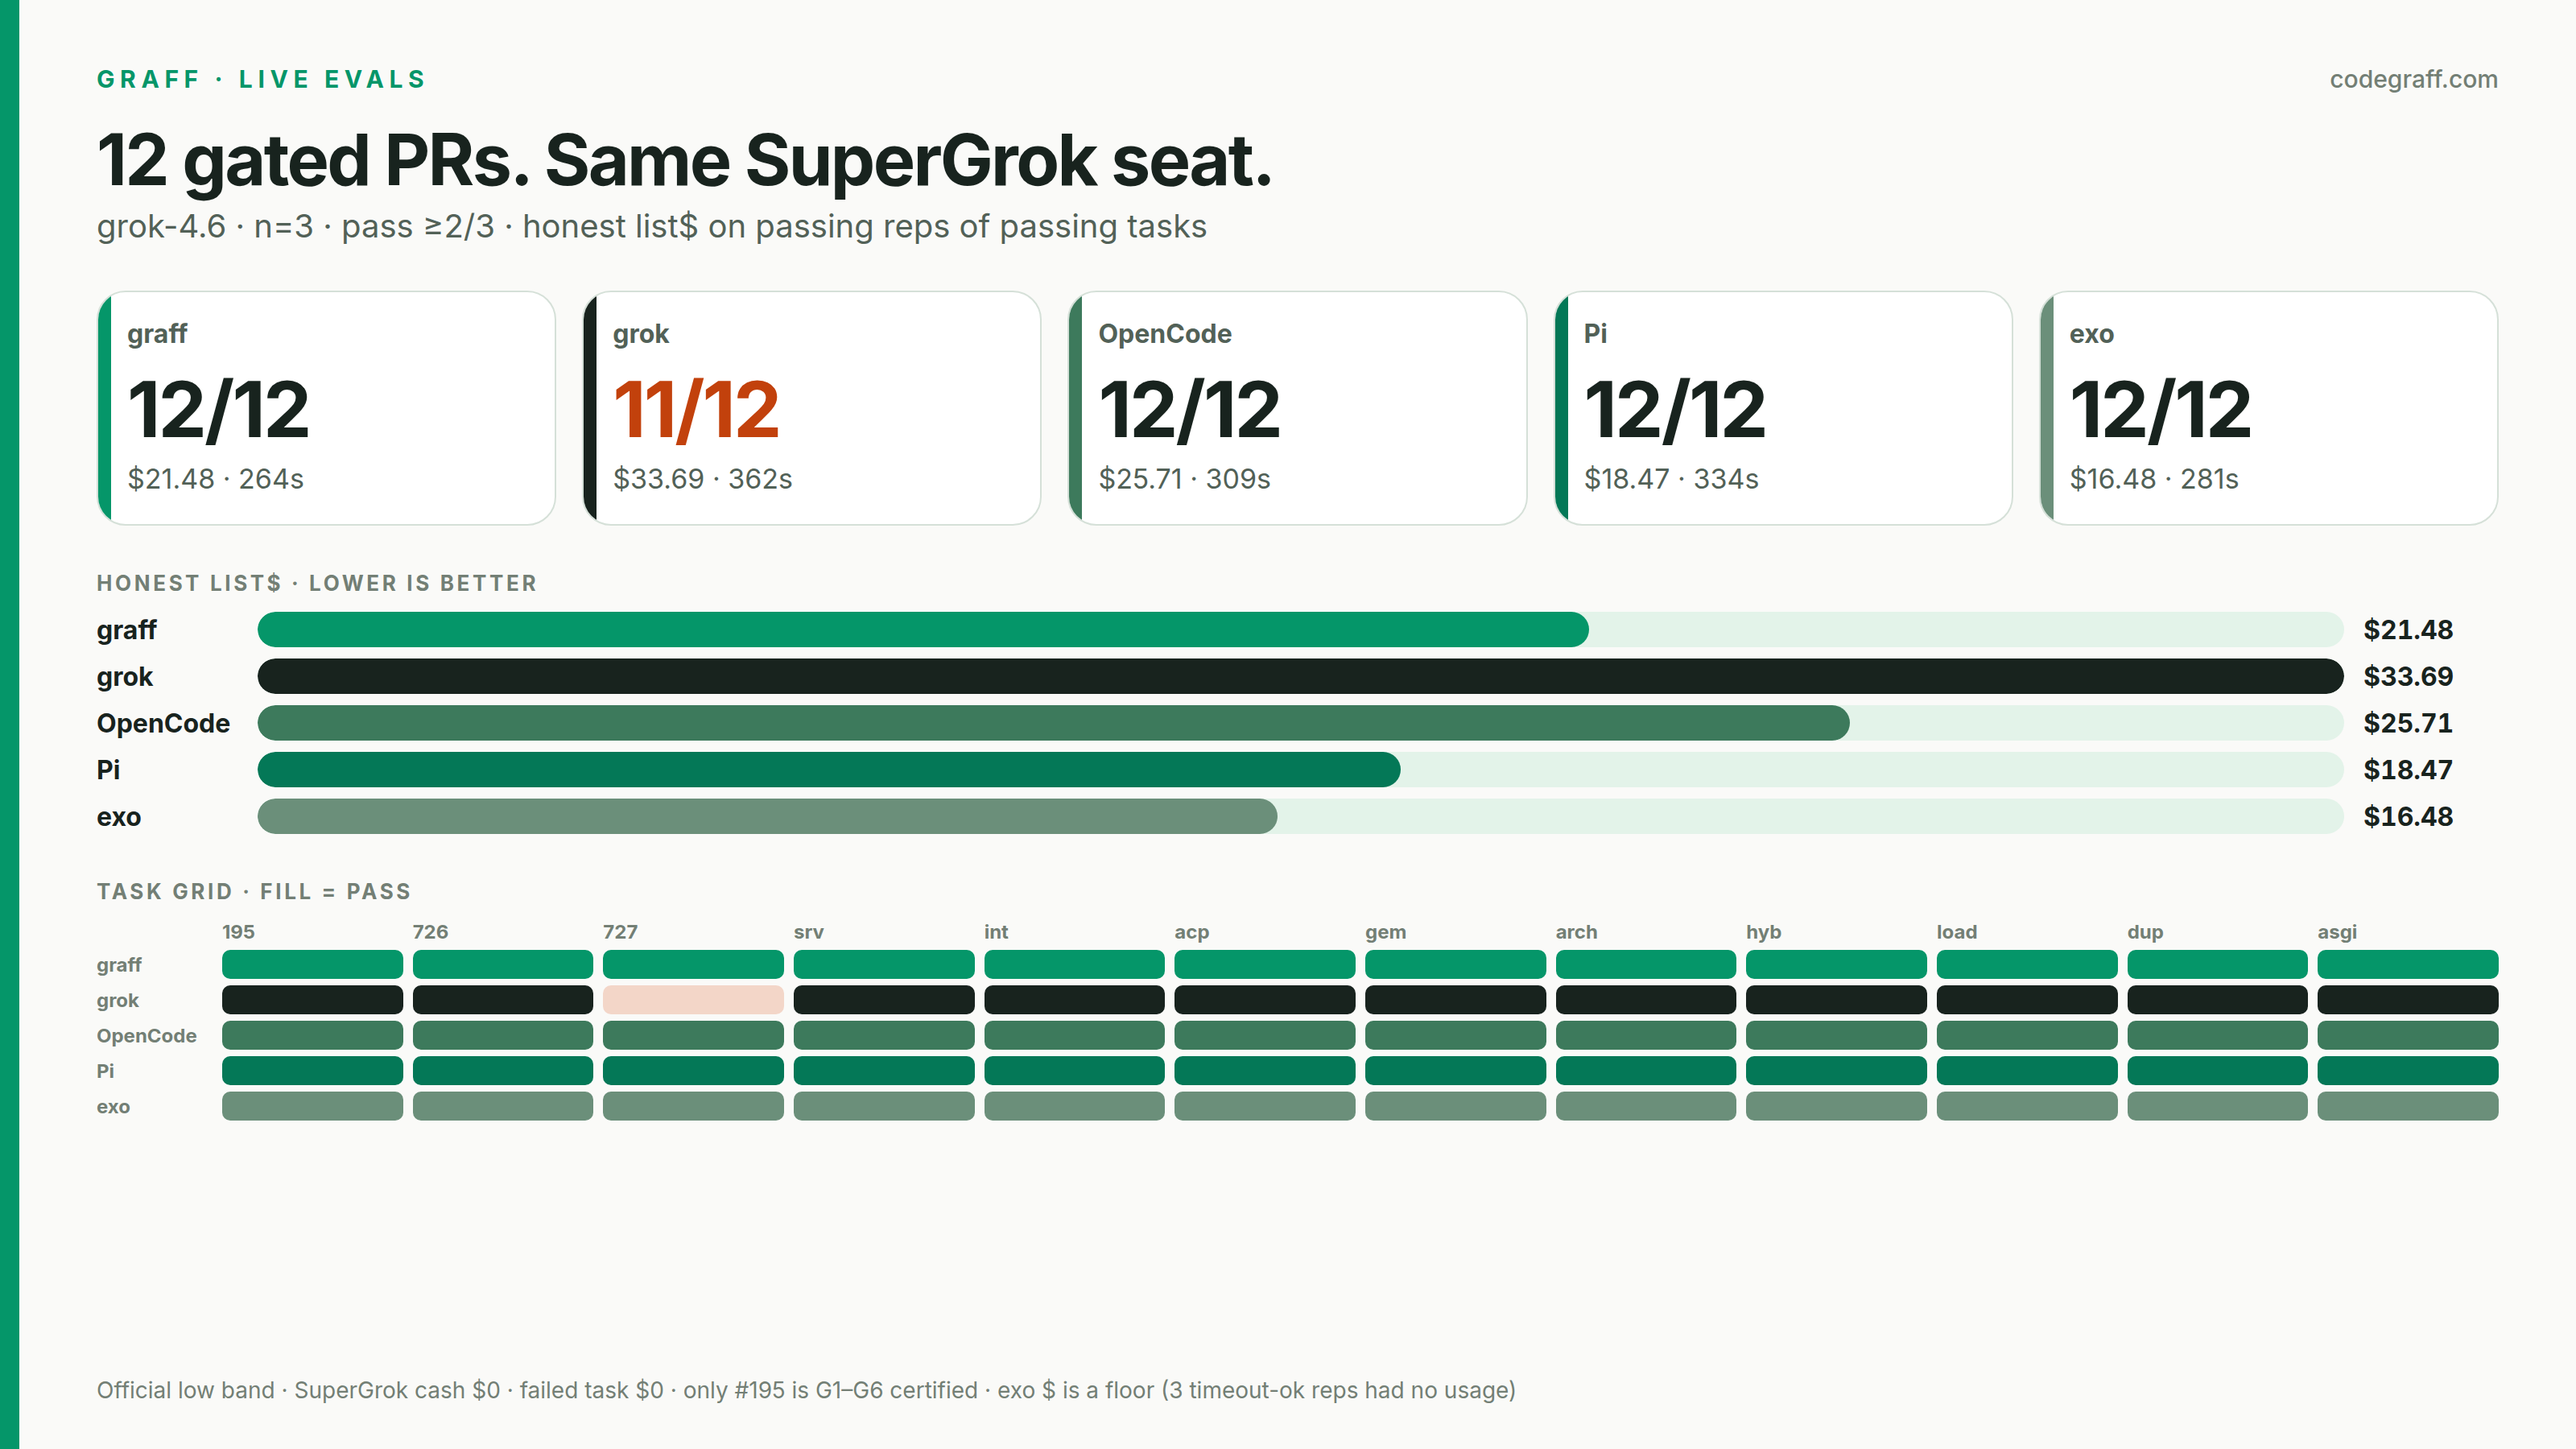
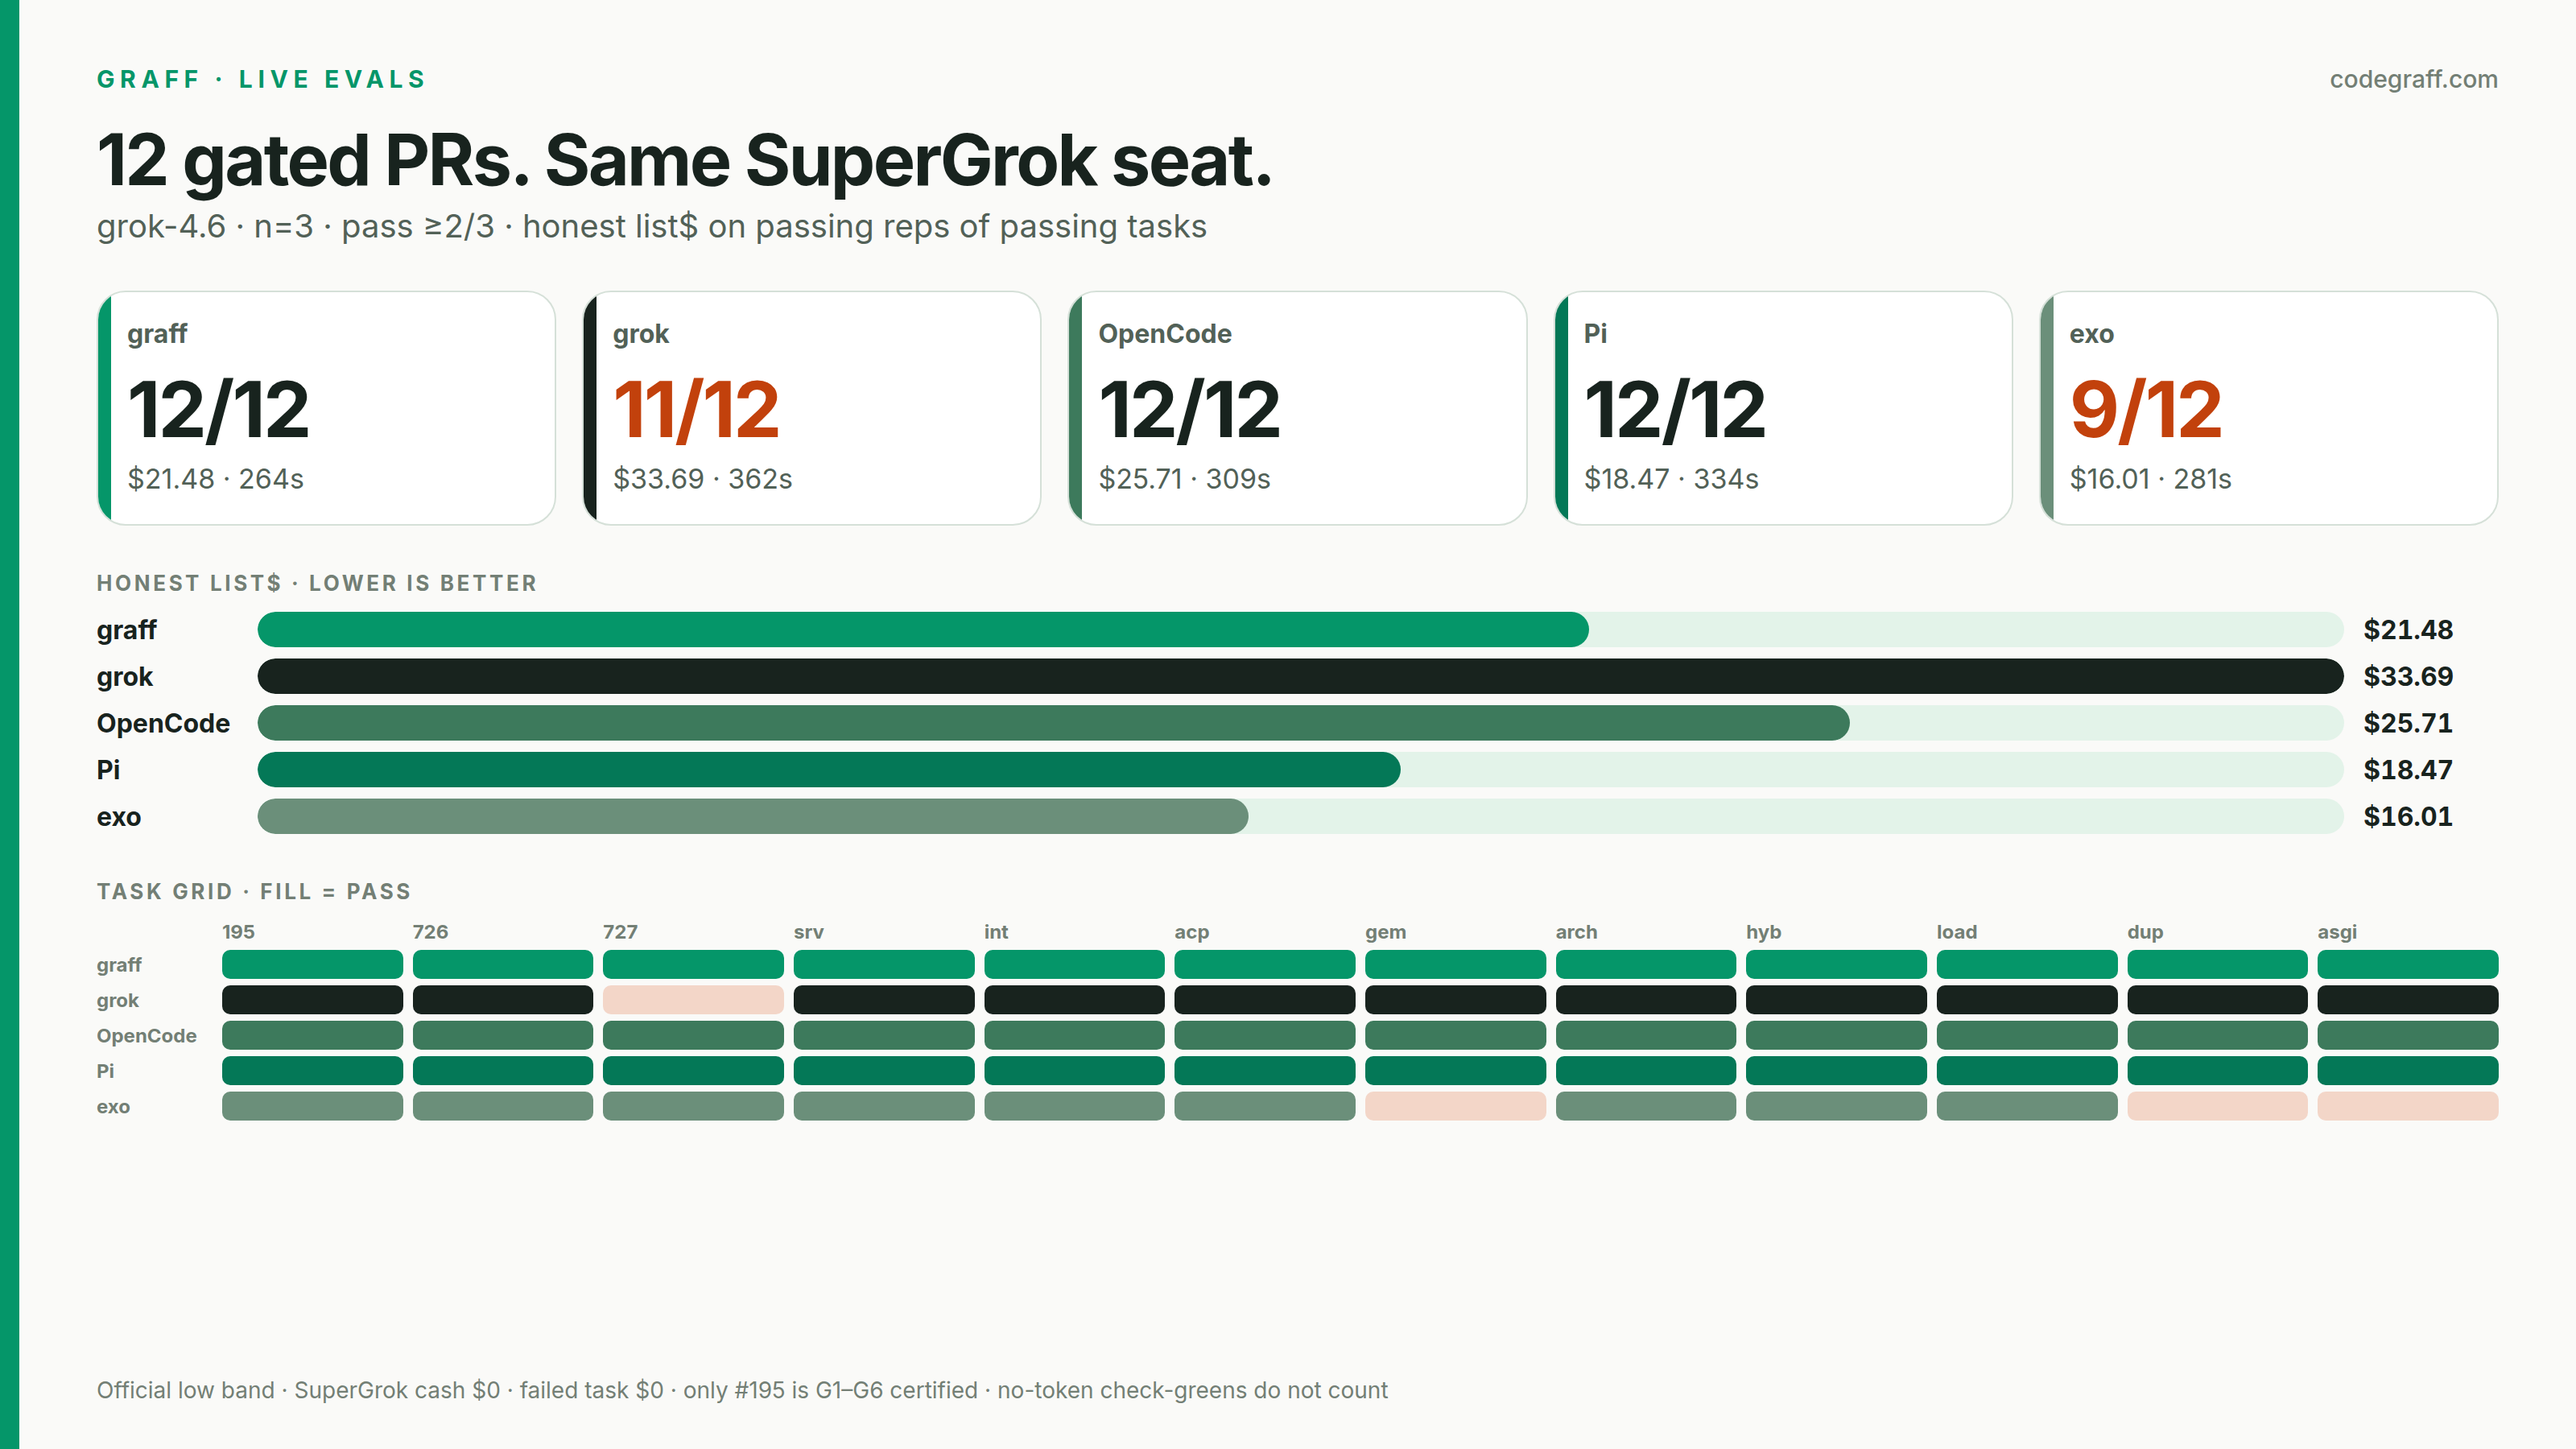
docs(evals): score exo 9/12 — no-token check-greens do not count
turbo-ws-duplex and turbo-asgi exited in under a second with no usage.
The public check still passed on the untouched tree. gemini-ix is 1 real
pass. Do not tweet exo as 12/12.

diff --git a/benchmarks/graff-live-12-report.html b/benchmarks/graff-live-12-report.html
@@ -48,15 +48,15 @@
 
     <div class="panel">
       <h2>Board</h2>
-      <p class="muted">Failed tasks contribute $0. exo's $16.48 is a floor — three timeout-ok reps recorded no usage.</p>
+      <p class="muted">Failed tasks contribute $0. A check-green with no tokens does not count.</p>
       <table>
-        <thead><tr><th>Harness</th><th>Reps</th><th>Tasks</th><th>Honest list$</th><th>Mean wall</th></tr></thead>
+        <thead><tr><th>Harness</th><th>Real reps</th><th>Tasks</th><th>Honest list$</th><th>Mean wall</th></tr></thead>
         <tbody>
           <tr><td><strong>graff</strong></td><td class="num">35/36</td><td class="num">12/12</td><td class="num">$21.48</td><td class="num">264s</td></tr>
           <tr><td>grok</td><td class="num">33/36</td><td class="num">11/12</td><td class="num">$33.69</td><td class="num">362s</td></tr>
           <tr><td>OpenCode</td><td class="num">36/36</td><td class="num">12/12</td><td class="num">$25.71</td><td class="num">309s</td></tr>
           <tr><td>Pi</td><td class="num">35/36</td><td class="num">12/12</td><td class="num">$18.47</td><td class="num">334s</td></tr>
-          <tr><td>exo</td><td class="num">34/36</td><td class="num">12/12</td><td class="num">$16.48</td><td class="num">281s</td></tr>
+          <tr><td>exo</td><td class="num">25/36</td><td class="num">9/12</td><td class="num">$16.01</td><td class="num">281s</td></tr>
         </tbody>
       </table>
     </div>
@@ -65,7 +65,7 @@
       <h2>How to read it</h2>
       <ul>
         <li>Only <code>graff-195</code> is G1–G6 certified. The other 11 are published live tasks.</li>
-        <li>Grok is the only seat that drops a task: <code>graff-727</code> at 1/3.</li>
+        <li>Grok drops <code>graff-727</code> (1/3). exo drops <code>graff-gemini-ix</code> plus <code>turbo-ws-duplex</code> / <code>turbo-asgi</code> (wrapper exit 1 in &lt;1s, no tokens).</li>
         <li>Stored JSONL <code>list$</code> high-bands the rep sum. Do not tweet that column.</li>
         <li>Wall is a hang detector. Do not score Graff first-token (boot <code>›</code>).</li>
         <li>This is not the in-house SPEC.md suite on the README (those are $0.32-class fixtures).</li>

diff --git a/graff-evals/plot_live.py b/graff-evals/plot_live.py
@@ -69,6 +69,11 @@ def honest(r: dict) -> float:
     return (ordinary * 2 + cached * 0.5 + out * 6) / 1e6
 
 
+def worked(r: dict) -> bool:
+    """A check-green with no tokens is not a solved task (exo turbo false greens)."""
+    return bool(r.get("tok_in") or r.get("tok_cached") or r.get("tok_out") or r.get("tok_calls"))
+
+
 def load_rows(path: Path, harness: str | None, skip: set | None) -> list[dict]:
     rows = []
     if not path.exists():
@@ -95,16 +100,16 @@ def score(rows: list[dict]) -> dict:
     pass_reps = fail_reps = to_ok = to_fail = 0
     for tid in TASKS:
         rs = sorted(by.get(tid, []), key=lambda x: x.get("rep", 0))
-        wins = sum(1 for r in rs if r.get("outcome_ok"))
+        wins = sum(1 for r in rs if r.get("outcome_ok") and worked(r))
         done = len(rs) >= 3
         ok = wins >= 2 if done else None
         cost = 0.0
         if done and ok:
-            cost = sum(honest(r) for r in rs if r.get("outcome_ok"))
+            cost = sum(honest(r) for r in rs if r.get("outcome_ok") and worked(r))
             suite += cost
         for r in rs:
             walls.append(r.get("wall_s") or 0)
-            if r.get("outcome_ok"):
+            if r.get("outcome_ok") and worked(r):
                 pass_reps += 1
             else:
                 fail_reps += 1
@@ -156,7 +161,7 @@ def build_summary() -> dict:
         "caveats": [
             "Only graff-195 is G1–G6 certified; the other 11 are published live tasks.",
             "Stored JSONL list$ high-bands the rep sum; headline $ is the official per-request low band.",
-            "exo honest $ is a floor: three timeout-ok reps recorded no usage.",
+            "A check-green with no tokens does not count (exo turbo-ws-duplex / turbo-asgi died in <1s).",
             "Wall is a hang detector. Do not score Graff first-token (boot ›).",
         ],
         "tasks": TASKS,
@@ -215,7 +220,7 @@ def svg(summary: dict) -> str:
             parts.append(f'<rect x="{x}" y="{y}" width="{cw-6}" height="{ch-6}" rx="6" fill="{fill}"/>')
             if not ok and cell["pass"] is False:
                 parts.append(f'<text x="{x+(cw-6)/2}" y="{y+16}" text-anchor="middle" font-size="11" font-weight="700" fill="{CORAL}" font-family="Inter, ui-sans-serif, system-ui, sans-serif">FAIL</text>')
-    parts.append(f'<text x="48" y="872" font-size="14" fill="{INK3}" font-family="Inter, ui-sans-serif, system-ui, sans-serif">Official low band · SuperGrok cash $0 · failed task $0 · only #195 is G1–G6 certified · exo $ is a floor (3 timeout-ok reps had no usage)</text>')
+    parts.append(f'<text x="48" y="872" font-size="14" fill="{INK3}" font-family="Inter, ui-sans-serif, system-ui, sans-serif">Official low band · SuperGrok cash $0 · failed task $0 · only #195 is G1–G6 certified · no-token check-greens do not count</text>')
     parts.append("</svg>")
     return "\n".join(parts) + "\n"
 
@@ -298,7 +303,7 @@ h1 {{ margin: 18px 0 6px; font-size: 44px; letter-spacing: -.03em; line-height: 
   {''.join(bars)}
   <div class="section">TASK GRID · FILL = PASS</div>
   {''.join(grid)}
-  <div class="foot">Official low band · SuperGrok cash $0 · failed task $0 · only #195 is G1–G6 certified · exo $ is a floor (3 timeout-ok reps had no usage)</div>
+  <div class="foot">Official low band · SuperGrok cash $0 · failed task $0 · only #195 is G1–G6 certified · no-token check-greens do not count</div>
 </div></body></html>
 """
 

diff --git a/CHANGELOG.md b/CHANGELOG.md
@@ -12,18 +12,15 @@ current is part of cutting a release.
 
 ## Unreleased
 
-## Unreleased
 
 - Live 12-PR board on grok-4.6 SuperGrok (n=3, no SPEC.md): graff / Pi /
-  OpenCode 12/12, grok 11/12 (`#727`), exo 9/12 (no-token check-greens do
-  not count). Receipt and site-palette card in `artifacts/graff-evals-live/`.
+  OpenCode 12/12, grok 11/12 (`#727`), exo 9/12 (gemini + two turbos —
+  no-token check-greens do not count). Honest list$ $21.48 / $18.47 /
+  $25.71 / $33.69 / $16.01. Receipt and site-palette card in
+  `artifacts/graff-evals-live/`.
 
 ## v0.0.295
 
-- `#812`: a mid-turn native image follow-up no longer sends empty `text` with
-  the image, which some Chat Completions providers reject (Z.AI 1210). The
-  caption is `Attached image.`
-- Muse Spark models accept image inputs on the Meta/Muse vision path.
 - Bare `codedb context <task>` defaults to on-device retrieval. Remote
   reranking remains an explicit opt-in and is refused under local-only
   policy (ADR 0084, ADR 0092).

diff --git a/artifacts/graff-evals-live/RECEIPT.md b/artifacts/graff-evals-live/RECEIPT.md
@@ -17,11 +17,13 @@ tasks, not a second gate pass.
 | grok | 33/36 | **11/12** | $33.69 | 362s |
 | OpenCode | 36/36 | **12/12** | $25.71 | 309s |
 | Pi | 35/36 | **12/12** | $18.47 | 334s |
-| exo | 34/36 | **12/12** | $16.48 | 281s |
+| exo | 25/36 | **9/12** | $16.01 | 281s |
 
-Grok is the only seat that drops a task (`graff-727`, 1/3). exo's $16.48
-is a **floor**: three timeout-ok reps recorded no usage. Stored JSONL
-`list$` high-bands the *rep* sum (~2×); do not tweet that column.
+A check-green with **no tokens does not count**. exo's last two turbo
+tasks (`turbo-ws-duplex`, `turbo-asgi`) exited in <1s with no usage —
+the public check still passed on the untouched tree. `graff-gemini-ix`
+is 1 real pass. Grok still drops `#727`. Stored JSONL `list$` high-bands
+the *rep* sum (~2×); do not tweet that column.
 
 Machine-local JSONL (gitignored): `run-20260908-173944` (#195),
 `run-20260908-182322` (graff rest), `run-20260909-011118` (grok),

diff --git a/README.md b/README.md
@@ -138,11 +138,12 @@ G1–G6 certified. Receipt:
 | **graff** | **12/12** | **$21.48** | **264s** |
 | Pi | 12/12 | $18.47 | 334s |
 | OpenCode | 12/12 | $25.71 | 309s |
-| exo | 12/12 | $16.48† | 281s |
 | grok | 11/12 | $33.69 | 362s |
+| exo | 9/12 | $16.01 | 281s |
 
-Grok is the only seat that drops a task (`#727`). SuperGrok cash is $0.
-† exo $ is a floor: three timeout-ok reps recorded no usage.
+Grok drops `#727`. exo drops `graff-gemini-ix` plus both remaining turbos
+(wrapper died in <1s, no tokens — those check-greens do not count).
+SuperGrok cash is $0.
 
 <p align="center">
   <img src="artifacts/graff-evals-live/live-20260909.png" alt="Live eval board on the codegraff.com palette: graff 12/12 $21.48, grok 11/12 $33.69, OpenCode 12/12 $25.71, Pi 12/12 $18.47, exo 12/12 $16.48" width="960">

diff --git a/socials/release-post/live-evals-295.md b/socials/release-post/live-evals-295.md
@@ -10,10 +10,10 @@ list$ is official low band, not SuperGrok cash; do not rank on wall.
 graff     12/12   $21.48
 Pi        12/12   $18.47
 OpenCode  12/12   $25.71
-exo       12/12   $16.48*
-grok      11/12   $33.69   (only miss: #727)
+grok      11/12   $33.69   (miss: #727)
+exo        9/12   $16.01   (miss: gemini + 2 turbos)
 
 Honest list$ = official low band on passing reps. SuperGrok cash is $0.
-*exo $ is a floor — three timeout-ok reps recorded no usage.
+exo turbos died in under a second with no tokens. Those check-greens do not count.
 
 codegraff.com
